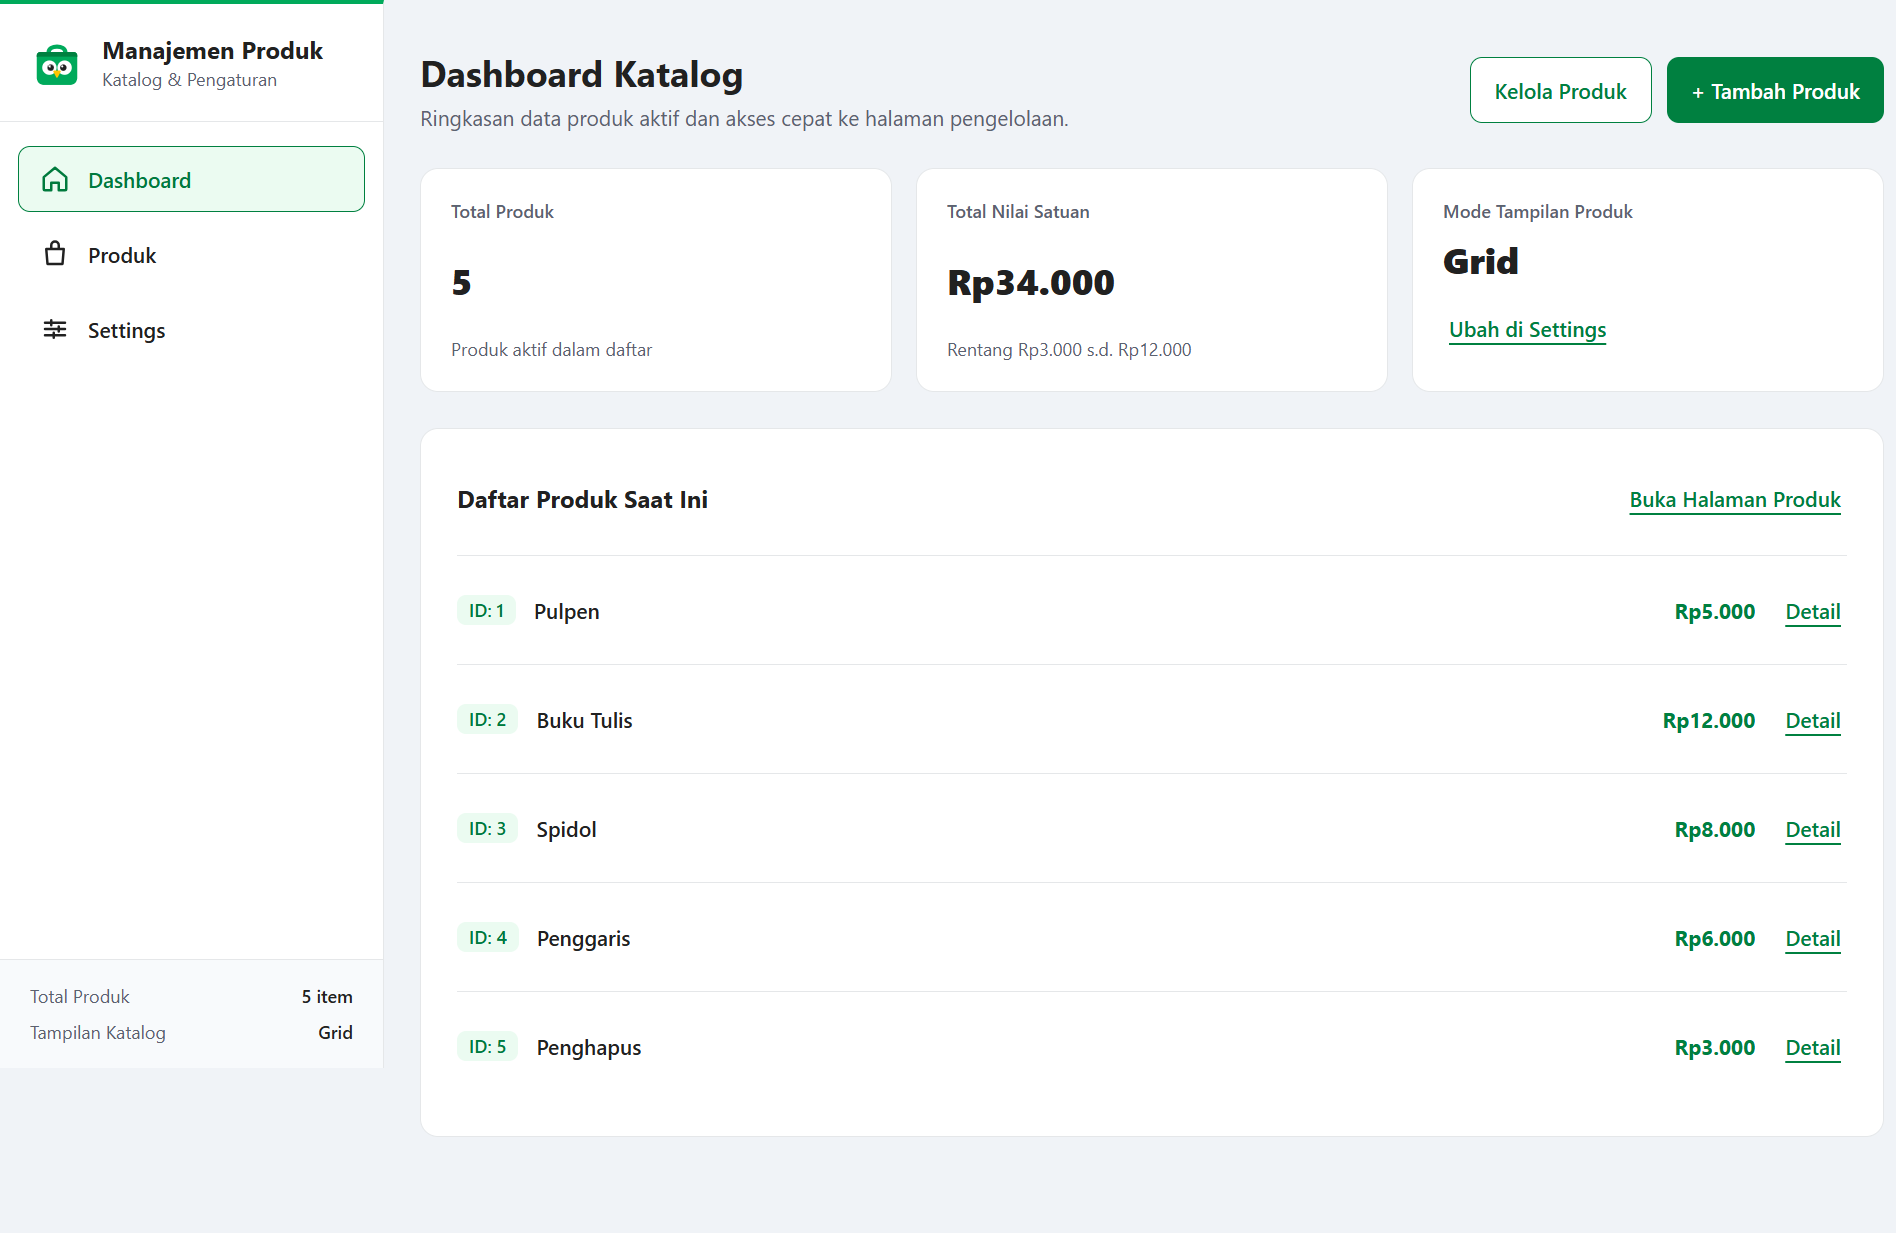
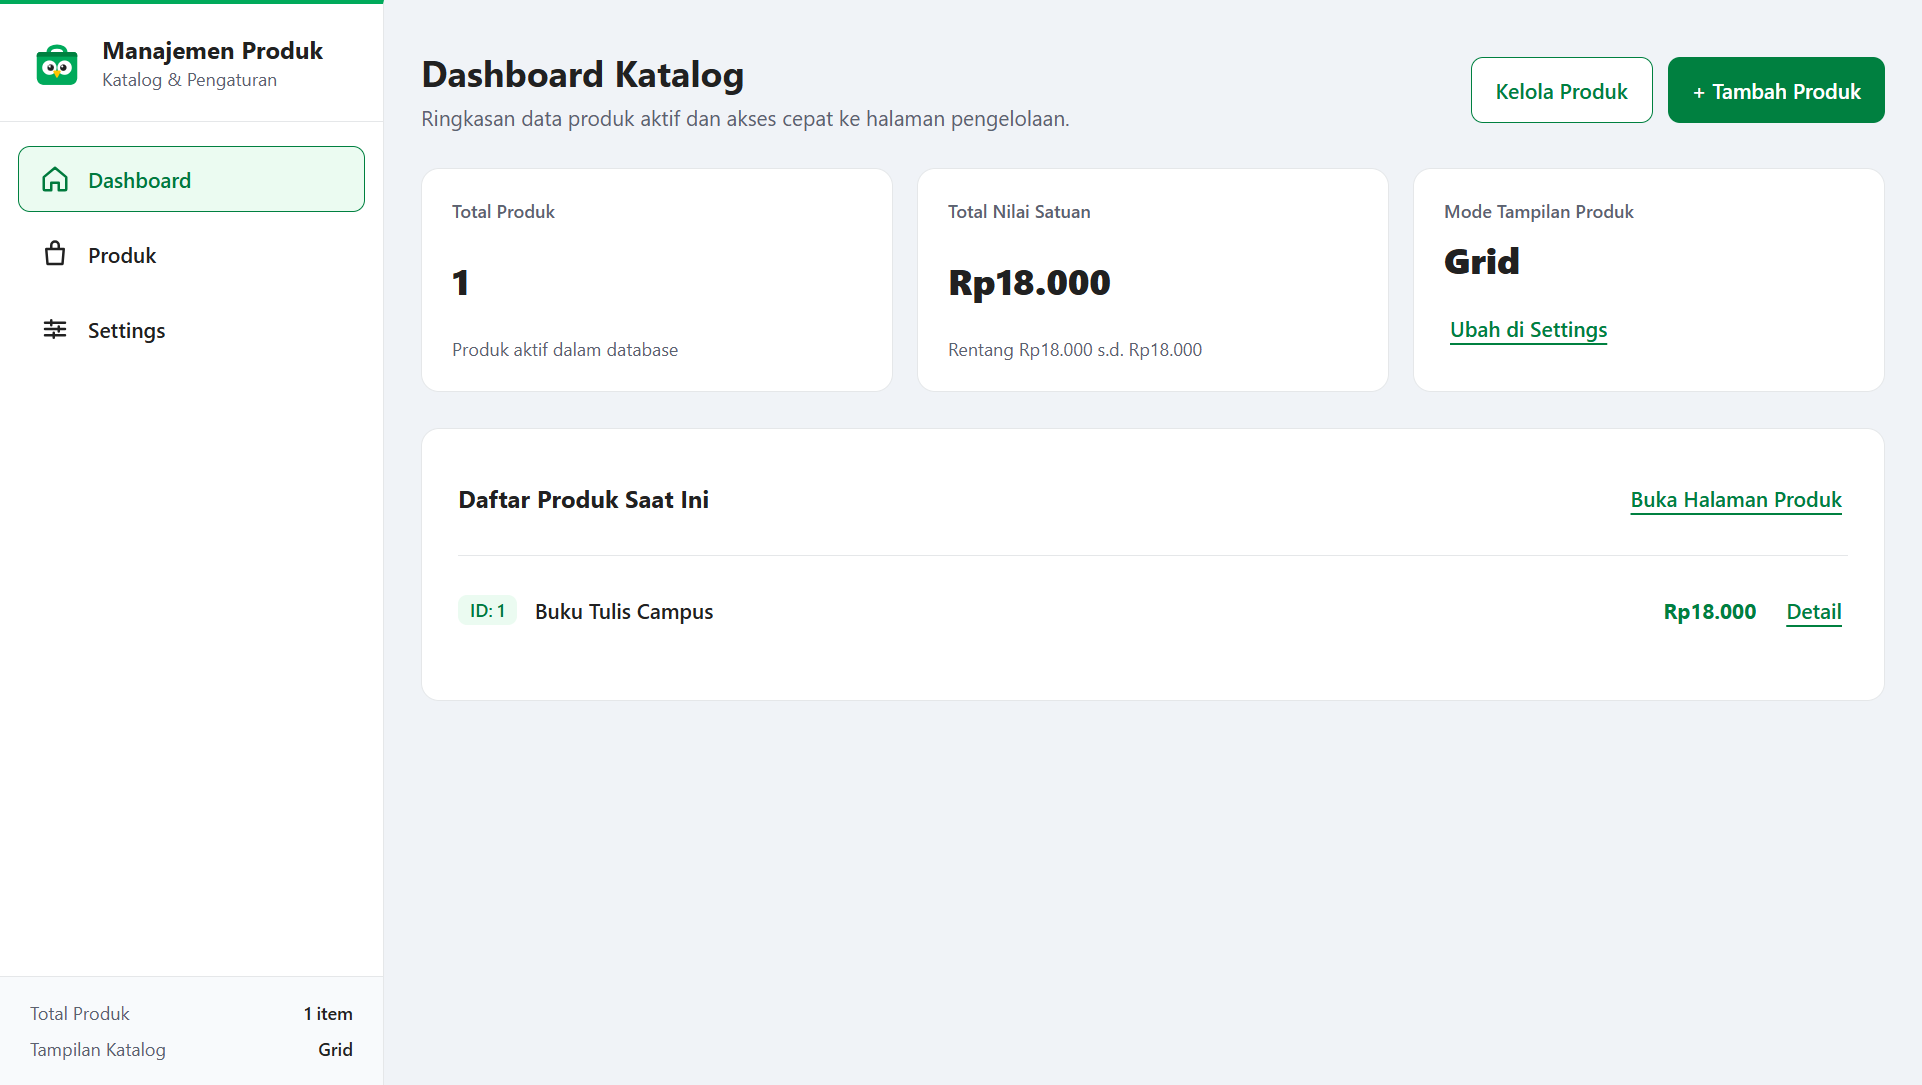
docs(tugas-4): perbarui bukti pengujian integrasi ExpressJS dan README

diff --git a/README.md b/README.md
@@ -1,22 +1,33 @@
 # Manajemen Produk (Tugas 4 Pemrograman Web)
 
-Aplikasi frontend berbasis React 19, React Router v7, Vite, dan Tailwind CSS v4 untuk pengelolaan katalog produk multi-halaman. Proyek ini melanjutkan aplikasi CRUD dari Tugas 3 dengan menambahkan layout navigasi bersama, halaman Dashboard, daftar produk (mode Grid dan List), halaman detail produk dinamis (`/products/:id`), halaman pengaturan tampilan (`/settings`), serta halaman `404` untuk rute yang tidak ditemukan.
+Aplikasi frontend berbasis React 19, React Router v7, Vite, dan Tailwind CSS v4 untuk pengelolaan katalog produk multi-halaman yang terintegrasi dengan backend REST API ExpressJS dan database PostgreSQL (Prisma ORM) dari Tugas 2.
 
 ![Tampilan Dashboard Manajemen Produk](evidence/01_dashboard.png)
 
-## Sentralisasi Tailwind CSS di Satu Berkas
+## Integrasi Backend ExpressJS dan Sentralisasi Tailwind CSS
 
-Seluruh konfigurasi Tailwind CSS (`@import "tailwindcss";`, `@theme`, `@layer base`, dan `@layer components` dengan `@apply`) dipusatkan pada satu berkas, yaitu [`src/index.css`](src/index.css). Komponen JSX hanya memakai nama class semantik tanpa menyisipkan utility class Tailwind langsung di atribut `className`.
+- **Integrasi REST API ExpressJS + PostgreSQL**: seluruh operasi baca dan tulis produk terhubung ke server ExpressJS (`http://localhost:3000`) melalui Vite proxy `/api` pada [`vite.config.js`](vite.config.js) dan modul API client [`src/utils/productApi.js`](src/utils/productApi.js). Data produk tersimpan persisten di PostgreSQL dan bertahan saat halaman dimuat ulang.
+- **Sentralisasi Tailwind CSS di Satu Berkas**: seluruh konfigurasi Tailwind CSS (`@import "tailwindcss";`, `@theme`, `@layer base`, dan `@layer components` via `@apply`) dipusatkan pada satu berkas, yaitu [`src/index.css`](src/index.css). Komponen JSX hanya memakai nama class semantik tanpa menyisipkan utility class Tailwind langsung di `className`.
+
+## Endpoint API yang Digunakan
+
+| Aksi UI | Request Frontend (Vite Proxy) | Diteruskan ke Backend ExpressJS |
+|---|---|---|
+| Muat daftar produk | `GET /api/products` | `GET /products` (`200 OK`) |
+| Muat detail produk | `GET /api/products/:id` | `GET /products/:id` (`200 OK` / `404`) |
+| Tambah produk baru | `POST /api/products` | `POST /products` (`201 Created`) |
+| Perbarui produk | `PUT /api/products/:id` | `PUT /products/:id` (`200 OK`) |
+| Hapus produk | `DELETE /api/products/:id` | `DELETE /products/:id` (`200 OK`) |
 
 ## Desain UI dan Aksesibilitas (WCAG AA dan 1.4.11)
 
-Antarmuka memakai palet tema seller Tokopedia dengan pemeriksaan kontras teks dan kontrol interaktif:
+Antarmuka memakai palet tema seller Tokopedia dengan pemeriksaan kontras teks, kontrol interaktif, dan state API (`loading`, `error`, dan `disabled`):
 
-- Teks utama `#212121` di atas permukaan `#FFFFFF` (16,10:1) dan latar `#F0F3F7` (14,47:1); teks sekunder `#5B6270` di atas `#FFFFFF` (6,13:1) dan `#F0F3F7` (5,51:1).
+- Teks utama `#212121` di atas `#FFFFFF` (16,10:1) dan `#F0F3F7` (14,47:1); teks sekunder `#5B6270` di atas `#FFFFFF` (6,13:1) dan `#F0F3F7` (5,51:1).
 - Aksi utama, tombol `Edit`, teks harga, dan ring fokus (`focus-visible`) memakai `#008040` (5,05:1 di atas `#FFFFFF`, 4,71:1 di atas `#EBFBF1`, 4,53:1 di atas `#F0F3F7`).
-- Badge `ID` memakai `#007A3D` di atas `#EBFBF1` (5,09:1); aksi hapus dan alert validasi memakai `#D91B42` (5,02:1 di atas `#FFFFFF`) serta `#B81436` di atas `#FFF0F3` (5,96:1).
-- Border input dan tombol netral memakai `#767E8C` (4,09:1 di atas `#FFFFFF`, 3,91:1 di atas `#F8FAFC`, 3,68:1 di atas `#F0F3F7`) sehingga melewati ambang batas non-teks 3:1.
-- Aksesibilitas keyboard didukung melalui skip link `"Lewati ke konten utama"` menuju `#main-content`, indikator `:focus-visible`, penutupan modal dengan `Escape`, target sentuh minimal 44px, serta navigasi responsif (sidebar di desktop dan bottom navigation di layar ponsel).
+- Badge `ID` memakai `#007A3D` di atas `#EBFBF1` (5,09:1); aksi hapus, alert validasi, dan panel error API memakai `#D91B42` (5,02:1 di atas `#FFFFFF`) serta `#B81436` di atas `#FFF0F3` (5,96:1).
+- Border input dan tombol netral memakai `#767E8C` (4,09:1 di atas `#FFFFFF`, 3,91:1 di atas `#F8FAFC`, 3,68:1 di atas `#F0F3F7`).
+- Aksesibilitas keyboard didukung melalui skip link `"Lewati ke konten utama"` menuju `#main-content`, indikator `:focus-visible`, penutupan modal dengan `Escape`, target sentuh minimal 44px, serta navigasi responsif (sidebar desktop dan bottom navigation ponsel).
 
 ## Rute dan Struktur Modul
 
@@ -25,9 +36,9 @@ Antarmuka memakai palet tema seller Tokopedia dengan pemeriksaan kontras teks da
 | Rute | Halaman / Perilaku |
 |---|---|
 | `/` | Redirect ke `/dashboard` |
-| `/dashboard` | Ringkasan faktual katalog (jumlah produk, total nilai satuan, rentang harga, mode tampilan aktif) dan akses cepat detail |
-| `/products` | Halaman daftar produk dengan pencarian real-time, tambah/edit/hapus produk, serta tampilan Grid atau List |
-| `/products/:id` | Detail produk sesuai parameter ID beserta tombol Edit, Hapus, Link kembali, dan pesan jelas jika ID tidak ditemukan |
+| `/dashboard` | Ringkasan faktual katalog dari database (jumlah produk, total nilai satuan, rentang harga, mode tampilan aktif) dan daftar ringkas produk |
+| `/products` | Halaman daftar produk dengan pencarian real-time, tambah/edit/hapus produk ke PostgreSQL, state loading/error + tombol `Coba Lagi`, serta mode `Grid` atau `List` |
+| `/products/:id` | Mengambil detail produk dari `GET /api/products/:id`, menyediakan tombol Edit, Hapus, Link kembali, serta pesan jelas saat ID tidak ditemukan (`404`) |
 | `/settings` | Pengaturan mode tampilan `Grid` atau `List` yang langsung diterapkan dan disimpan ke `localStorage` |
 | `*` | Halaman `404` dengan pesan jelas, path URL yang diakses, dan tautan kembali |
 
@@ -35,23 +46,27 @@ Antarmuka memakai palet tema seller Tokopedia dengan pemeriksaan kontras teks da
 
 | Modul | Lokasi | Peran |
 |---|---|---|
-| Stylesheet terpusat | `src/index.css` | Satu-satunya berkas Tailwind CSS dan seluruh class komponen |
+| Stylesheet terpusat | `src/index.css` | Satu-satunya berkas Tailwind CSS dan seluruh class komponen (termasuk state loading, error, disabled) |
+| Proxy & Env | `vite.config.js`, `.env.example` | Meneruskan `/api/*` ke `http://localhost:3000` saat dev dan preview |
+| API Client | `src/utils/productApi.js` | Pembungkus `fetch` dan kelas `ApiError` untuk operasi CRUD ke ExpressJS |
 | Entry & Router | `src/main.jsx` | Membungkus aplikasi dengan `BrowserRouter` |
-| Root State & Routes | `src/App.jsx` | Menyimpan state `products`, `nextId`, `searchQuery`, `viewMode`, modal, dan definisi `<Routes>` |
+| Root State & Routes | `src/App.jsx` | Mengelola fetch katalog, mutasi CRUD async, state loading/error modal, serta `<Routes>` |
 | Layout Bersama | `src/components/Layout.jsx` | Skip link, sidebar desktop, mobile topbar & bottom navigation, dan `<Outlet />` |
-| Halaman Dashboard | `src/pages/DashboardPage.jsx` | Ringkasan katalog dan daftar ringkas produk |
-| Halaman Produk | `src/pages/ProductsPage.jsx` | Toolbar produk, grid/list katalog, empty state, dan footer jumlah item |
-| Halaman Detail | `src/pages/ProductDetailPage.jsx` | Pembacaan `useParams()`, tampilan detail per ID, dan fallback jika ID tidak ada |
-| Halaman Settings | `src/pages/SettingsPage.jsx` | Pilihan mode tampilan `Grid` / `List` dengan `aria-pressed` |
-| Halaman 404 | `src/pages/NotFoundPage.jsx` | Penanganan rute tidak dikenal dengan `useLocation()` |
-| Komponen Produk & Modal | `src/Navbar.jsx`, `src/ProductCard.jsx`, `src/ProductModal.jsx`, `src/DeleteModal.jsx` | Toolbar produk, kartu grid/list, modal tambah/edit, dan modal konfirmasi hapus |
-| Utilitas Murni | `src/utils/formatPrice.js`, `src/utils/productUtils.js` | Pemformat harga rupiah, filter, validasi input, pencarian ID, ringkasan, dan normalisasi `viewMode` |
+| Halaman | `src/pages/DashboardPage.jsx`, `src/pages/ProductsPage.jsx`, `src/pages/ProductDetailPage.jsx`, `src/pages/SettingsPage.jsx`, `src/pages/NotFoundPage.jsx` | Implementasi masing-masing rute dan penanganan status loading/error/kosong |
+| Komponen & Utilitas | `src/Navbar.jsx`, `src/ProductCard.jsx`, `src/ProductModal.jsx`, `src/DeleteModal.jsx`, `src/utils/formatPrice.js`, `src/utils/productUtils.js` | Toolbar produk, kartu grid/list, modal dengan state submit async, formatter, dan helper murni |
 
-## Cara Menjalankan dan Pengujian Lokal
+## Cara Menjalankan Backend, Frontend, dan Pengujian Lokal
+
+1. Jalankan backend ExpressJS + PostgreSQL (dari proyek Tugas 2):
 
 ```bash
-git clone https://github.com/Afahmisan/Tugas4-Minggu12-Penweb.git
-cd Tugas4-Minggu12-Penweb
+cd ../../tugas2/tugass2
+node server.js
+```
+
+2. Pada terminal terpisah, jalankan frontend React + Vite:
+
+```bash
 npm install
 npm run dev
 ```
@@ -59,34 +74,33 @@ npm run dev
 Perintah verifikasi lokal (pada PowerShell Windows yang memblokir `npm.ps1`, gunakan `npm.cmd`):
 
 ```bash
-npm test      # Menjalankan 6 unit test di tests/productUtils.test.js
-npm run lint  # Menjalankan oxlint pada berkas sumber
+npm test      # Menjalankan 11 unit test di tests/productUtils.test.js dan tests/productApi.test.js
+npm run lint  # Menjalankan oxlint pada seluruh berkas sumber
 npm run build # Membangun bundle produksi Vite ke folder dist/
 ```
 
-## Pengujian dan Bukti Tampilan
+## Pengujian E2E dan Bukti Tampilan
 
-Pengecekan otomatis mencatat 6 dari 6 unit test di `tests/productUtils.test.js` lulus, `oxlint` bersih dengan 0 warning dan 0 error, serta `vite build` berhasil. Pengujian interaktif pada Chrome untuk viewport desktop (`1280x800`), tablet (`768x1024`), dan mobile (`375x812`) berjalan dengan 0 console error aplikasi dan 0 horizontal overflow (`scrollWidth <= innerWidth`).
+Pengecekan otomatis mencatat 11 dari 11 unit test lulus, `oxlint` bersih dengan 0 warning dan 0 error, serta `vite build` selesai tanpa error. Pengujian E2E langsung pada Chrome terhadap backend ExpressJS + PostgreSQL untuk viewport desktop (`1280x800`), tablet (`768x1024`), dan mobile (`375x812`) berjalan dengan 0 error runtime aplikasi dan 0 horizontal overflow (`scrollWidth <= innerWidth`), termasuk pengujian full page reload untuk membuktikan persistensi database.
 
 | Skenario | Hasil yang Diharapkan | Hasil Aktual |
 |---|---|---|
-| Akses `/` menuju `/dashboard` dan uji `Tab` | Redirect ke `/dashboard`, ringkasan faktual tampil (`5` produk, `Rp34.000`, `Grid`), skip link muncul saat `Tab` | Sesuai |
-| Halaman `/products` mode Grid dan pencarian | 5 produk tampil dalam grid 3 kolom; pencarian `"Buku"` menyaring ke `Buku Tulis`; tombol hapus pencarian mengembalikan daftar | Sesuai |
-| Tambah, edit, hapus produk dan validasi modal | Validasi menolak input kosong; `Map` (`Rp4.500`) bertambah ke `ID: 6`; `ID: 2` berubah ke `Buku Tulis Campus` (`Rp15.000`); `Escape` menutup modal tanpa menghapus; konfirmasi menghapus `Spidol` | Sesuai |
-| Halaman detail `/products/:id` dan ID tidak ada | `/products/2` menampilkan data sesuai ID 2 dan link kembali; `/products/999` menampilkan pesan tidak ditemukan + link kembali | Sesuai |
-| Pengaturan Grid/List dari `/settings` | Memilih `Tampilan List` mengubah status menjadi `Aktif` dan mengubah tata letak `/products` menjadi list horizontal | Sesuai |
-| Halaman 404 (`/*`) | URL tidak dikenal (`/halaman-tidak-ada`) menampilkan kode `404`, pesan jelas, path, dan tautan kembali | Sesuai |
-| Responsif Tablet (`768x1024`) dan Mobile (`375x812`) | Seluruh rute bebas horizontal overflow (`scrollWidth <= innerWidth`) dan konten bawah tidak tertutup bottom navigation | Sesuai |
+| Akses `/` menuju `/dashboard` dan `GET /api/products` | Redirect ke `/dashboard`, `GET /api/products` (`200 OK`) memuat data PostgreSQL (`ID: 1 Buku Tulis Campus Rp18.000`) | Sesuai |
+| Tambah produk ke PostgreSQL dan reload halaman | `POST /api/products` (`201 Created`) untuk `Pulpen Gel` dan `Penggaris`; data tetap ada setelah full page reload | Sesuai |
+| Pencarian, edit, dan hapus ke PostgreSQL | Filter `"Pulpen"` bekerja; `PUT /api/products/3` (`200 OK`) mengubah ke `Pulpen Biru`; `Escape` membatalkan hapus; `DELETE /api/products/4` (`200 OK`) menghapus `Penggaris` permanen | Sesuai |
+| Halaman detail `/products/:id` setelah reload dan ID `99999` | Full reload `/products/3` memuat `GET /api/products/3` dan tampil sesuai ID; `/products/99999` menerima `404` dan menampilkan pesan tidak ditemukan | Sesuai |
+| Pengaturan Grid/List dari `/settings` | Memilih `Tampilan List` mengubah status menjadi `Aktif` dan mengubah daftar `/products` menjadi list horizontal | Sesuai |
+| Halaman 404 (`/*`) dan uji responsif Tablet/Mobile | URL `/halaman-tidak-ada` menampilkan halaman `404`; `scrollWidth <= innerWidth` pada `768x1024` dan `375x812`, footer berjarak 52px di atas bottom nav | Sesuai |
 
 ### Galeri Bukti Screenshot
 
 | Halaman | Tampilan |
 |---|---|
-| Dashboard (`1280x800`) | ![Dashboard](evidence/01_dashboard.png) |
-| Produk Mode Grid (`1280x800`) | ![Produk Grid](evidence/02_products_grid.png) |
-| Setelah Tambah Produk (`Map`, `Rp4.500`) | ![After Tambah](evidence/03_crud_after_add.png) |
-| Setelah Edit `ID: 2` dan Hapus `ID: 3` | ![After Edit dan Hapus](evidence/04_crud_after_edit_delete.png) |
-| Detail Produk (`/products/2`) | ![Detail Produk](evidence/05_product_detail.png) |
+| Dashboard dari PostgreSQL (`1280x800`) | ![Dashboard](evidence/01_dashboard.png) |
+| Produk Mode Grid dari PostgreSQL (`1280x800`) | ![Produk Grid](evidence/02_products_grid.png) |
+| Setelah Tambah & Full Reload (`3 produk`) | ![After Tambah](evidence/03_crud_after_add.png) |
+| Setelah Edit & Hapus Permanen (`2 produk`) | ![After Edit dan Hapus](evidence/04_crud_after_edit_delete.png) |
+| Detail Produk `/products/3` Setelah Reload | ![Detail Produk](evidence/05_product_detail.png) |
 | Halaman Settings (`Tampilan List`) | ![Settings List](evidence/06_settings_list.png) |
 | Produk Mode List (`1280x800`) | ![Produk List](evidence/07_products_list.png) |
 | Halaman 404 (`/halaman-tidak-ada`) | ![Halaman 404](evidence/08_not_found_404.png) |
